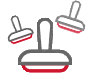
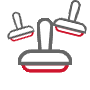
1
1

diff --git a/1차프로젝트/개인과제모음/css/main.css b/1차프로젝트/개인과제모음/css/main.css
@@ -13,6 +13,8 @@ scroll-behavior: smooth;
 /* 공사중표시 */
 body * {
   /* outline: 2px dotted red; */
+  -webkit-user-drag: none;
+  user-select: none;
   /* background-color: black; */
 }
 
@@ -387,6 +389,7 @@ a.salad-logo {
   top: -50%;
   position: absolute;
   transition: 2s ease-in-out all;
+  z-index: -1;
 }
 .cheese {
   top: 0;
@@ -399,64 +402,105 @@ a.salad-logo {
   position: absolute;
   left: 0;
 }
-.sl-piz1>img{
- position: absolute;
-    width: 149.5px;
-    height: 172px;
-    bottom: 12.2%;
-    left: 12.5%;
-}
-.sl-piz2>img{
-  position: absolute;
-    width: 200px;
-    height: 109.9px;
-    bottom: 37.1%;
-    left: 8.7%;
-}
-.sl-piz3>img{
-  position: absolute;
-    width: 199px;
-    height: 121.8px;
-    bottom: 19.8%;
-    left: 8.5%;
-}
-.sl-piz4>img{
- position: absolute;
-    width: 141.3px;
-    height: 157px;
-    bottom: 37.8%;
-    left: 24.5%;
-}
-.sl-piz5>img{
+
+/* 피자조각 공통요소 */
+.pizza-slice>img{
   position: absolute;
     width: 144.1px;
-    height: 171.5px;
-    bottom: 12.3%;
-    left: 24.2%;
+    height: 155.5px;
+    clip-path: polygon(0% 100%, 0% 0%, 100% 76%, 82% 86%, 55% 98%, 25% 100%);
 }
-
+.sl-piz1>img{
+  transform-origin: top left;
+    position: absolute;
+    width: 134.1px;
+    height: 158px;
+    bottom: 12.3%;
+    left: 24.8%;
+    clip-path: polygon(0% 100%, 0% 0%, 100% 76%, 82% 86%, 55% 98%, 25% 100%);
+    rotate: 51deg;
+}
+.sl-piz2>img{
+  transform-origin: top left;
+    position: absolute;
+    width: 134.1px;
+    height: 158px;
+    bottom: 12.3%;
+    left: 24.8%;
+    clip-path: polygon(0% 100%, 0% 0%, 100% 76%, 82% 86%, 55% 98%, 25% 100%);
+    rotate: 139deg;
+}
+.sl-piz3>img{
+  transform-origin: top left;
+    position: absolute;
+    width: 134.1px;
+    height: 158px;
+    bottom: 12.3%;
+    left: 24.8%;
+    clip-path: polygon(0% 100%, 0% 0%, 100% 76%, 82% 86%, 55% 98%, 25% 100%);
+    rotate: 99deg;
+}
+.sl-piz4>img{
+  transform-origin: top left;
+    position: absolute;
+    width: 150.1px;
+    height: 175px;
+    bottom: 10.2%;
+    left: 24.8%;
+    clip-path: polygon(0% 106%, 0% 0%, 100% 77%, 88% 68%, 54% 96%, 25% 100%);
+    transform: skew(8deg, -19deg);
+    rotate: 242deg;
+    opacity: 0;
+}
+.sl-piz5>img{
+  transform-origin: top left;
+    position: absolute;
+    width: 151.1px;
+    height: 168px;
+    bottom: 12.6%;
+    left: 24.3%;
+    clip-path: polygon(0% 100%, 0% 0%, 100% 76%, 82% 86%, 55% 98%, 25% 100%);
+    rotate: 1deg;
+    opacity: 0;
+    
+}
 .sl-piz6>img{
- position: absolute;
-    width: 198px;
-    height: 134.9px;
-    bottom: 17.8%;
-    left: 24.7%;
+ transform-origin: top left;
+    position: absolute;
+    width: 114.1px;
+    height: 159px;
+    bottom: 13.3%;
+    left: 24.3%;
+    clip-path: polygon(0% 100%, 0% 0%, 100% 76%, 82% 86%, 55% 98%, 25% 100%);
+    rotate: 312deg;
+    scale: 1.2;
+    opacity: 0;
+
 }
 .sl-piz7>img{
- position: absolute;
-    width: 198px;
-    height: 113px;
-    bottom: 37.2%;
-    left: 24.7%;
+ transform-origin: top left;
+    position: absolute;
+    width: 139px;
+    height: 189px;
+    bottom: 8.8%;
+    left: 24.8%;
+    clip-path: polygon(0% 0%, 6% 0%, 106% 40%, 85% 80%, 47% 100%, 18% 100%);
+    rotate: 280deg;
+    transform: skew(2deg, 354deg);
+    opacity: 0;
+}
+.sl-piz8>img{
+ transform-origin: top left;
+    position: absolute;
+    width: 134.1px;
+    height: 158px;
+    bottom: 12.3%;
+    left: 24.8%;
+    clip-path: polygon(0% 100%, 0% 0%, 100% 76%, 82% 86%, 55% 98%, 25% 100%);
+    rotate: 179deg;
+    opacity: 0;
 }
 
-.sl-piz8>img{
-position: absolute;
-    width: 134.3px;
-    height: 158.6px;
-    bottom: 37.3%;
-    left: 13.9%;
-}
 /************************************************ 마우스 오버시 배경 영역 ************************************************/
 .eight-pizza-part:hover {
   .e-pizza-tit {
@@ -508,10 +552,10 @@ position: absolute;
   bottom: 80px;
   opacity: 1;
 }
+
 .e-pizza:hover {
   opacity: 1;
   transition: 1s ease-in-out all;
-  cursor: pointer;
 }
 
 .bg-pizza {
@@ -990,9 +1034,86 @@ i.fa-arrow-down{
  max-width: 90px;
   max-height: 90px;
 }
+
+a.cou-logo {
+  display: inline-block;
+}
+/* 처음에 두번째 이미지 안보이게하기 */
+.cou-logo img:last-child {
+  display: none;
+}
+/* 마우스 오버시 첫번쨰이미지 안보이게하기 */
+.cou-logo:hover img:first-child {
+  display: none;
+}
+/*마우스 오버시 두번째 이미지 보이게하기 */
+.cou-logo:hover img:last-child {
+  display: inline;
+}
+
+
+a.stamp-logo {
+  display: inline-block;
+}
+/* 처음에 두번째 이미지 안보이게하기 */
+.stamp-logo img:last-child {
+  display: none;
+}
+/* 마우스 오버시 첫번쨰이미지 안보이게하기 */
+.stamp-logo:hover img:first-child {
+  display: none;
+}
+/*마우스 오버시 두번째 이미지 보이게하기 */
+.stamp-logo:hover img:last-child {
+  display: inline;
+}
+
+
+a.pocket-logo {
+  display: inline-block;
+}
+/* 처음에 두번째 이미지 안보이게하기 */
+.pocket-logo img:last-child {
+  display: none;
+}
+/* 마우스 오버시 첫번쨰이미지 안보이게하기 */
+.pocket-logo:hover img:first-child {
+  display: none;
+}
+/*마우스 오버시 두번째 이미지 보이게하기 */
+.pocket-logo:hover img:last-child {
+  display: inline;
+}
+
+a.mile-logo {
+  display: inline-block;
+}
+/* 처음에 두번째 이미지 안보이게하기 */
+.mile-logo img:last-child {
+  display: none;
+}
+/* 마우스 오버시 첫번쨰이미지 안보이게하기 */
+.mile-logo:hover img:first-child {
+  display: none;
+}
+/*마우스 오버시 두번째 이미지 보이게하기 */
+.mile-logo:hover img:last-child {
+  display: inline;
+}
+
+
+
+
 /******************************************** 7.하단영역 ********************************************/
-.bottom-area {
+#bottom-area {
   height: 249px;
-  width: 1220px;
   margin: 0 auto;
+  background-color: rgba(200, 181, 181, 1)
+}
+.bottom-list1{
+display: flex;
+}
+
+.bottom-list2{
+display: flex;
 }

diff --git a/1차프로젝트/개인과제모음/01.pizza.html b/1차프로젝트/개인과제모음/01.pizza.html
@@ -281,32 +281,41 @@
     <div class="eight-pizza-part">
     <div class="e-pizza-part">
         <div class="sl-part">
-            <!-- 기존 배경 피자 이미지는 CSS로 처리하거나 배경으로 설정 -->
+            <div class="piz-part"><!-- 기존 배경 피자 이미지는 CSS로 처리하거나 배경으로 설정 -->
             <img src="./피자조각 요소/8조각피자.png" alt="8피자" class="e-pizza">
+            <!-- <img src="./피자조각 요소/피자 오버시 7.png" alt="8피자" class="e-pizza1">
+            <img src="./피자조각 요소/피자 오버시 1.png" alt="8피자" class="e-pizza2">
+            <img src="./피자조각 요소/피자 오버시 2.png" alt="8피자" class="e-pizza3">
+            <img src="./피자조각 요소/피자 오버시 8.png" alt="8피자" class="e-pizza4">
+            <img src="./피자조각 요소/피자 오버시 3.png" alt="8피자" class="e-pizza5">
+            <img src="./피자조각 요소/피자 오버시 4.png" alt="8피자" class="e-pizza6">
+            <img src="./피자조각 요소/피자 오버시 5.png" alt="8피자" class="e-pizza7">
+            <img src="./피자조각 요소/피자 오버시 6.png" alt="8피자" class="e-pizza8"> -->
+            </div>
             <!-- 8개의 피자 조각들을 e-pizza 안에 배치 -->
             <a href="" class="pizza-slice sl-piz1">
-                <img src="./피자조각 요소/Layer 10.png" alt="피자조각1" />
+                <img src="./피자조각 요소/Layer 10-1.png" alt="피자조각1" />
             </a>
             <a href="" class="pizza-slice sl-piz2">
-                <img src="./피자조각 요소/Layer 3.png" alt="피자조각2" />
+                <img src="./피자조각 요소/Layer 3-1.png" alt="피자조각2" />
             </a>
             <a href="" class="pizza-slice sl-piz3">
-                <img src="./피자조각 요소/Layer 4.png" alt="피자조각3" />
+                <img src="./피자조각 요소/Layer 4-1.png" alt="피자조각3" />
             </a>
             <a href="" class="pizza-slice sl-piz4">
-                <img src="./피자조각 요소/Layer 11.png" alt="피자조각4" />
+                <img src="./피자조각 요소/Layer 11-1.png" alt="피자조각4" />
             </a>
             <a href="" class="pizza-slice sl-piz5">
                 <img src="./피자조각 요소/Layer 6.png" alt="피자조각5" />
             </a>
             <a href="" class="pizza-slice sl-piz6">
-                <img src="./피자조각 요소/Layer 7.png" alt="피자조각6" />
+                <img src="./피자조각 요소/Layer 7-1.png" alt="피자조각6" />
             </a>
             <a href="" class="pizza-slice sl-piz7">
-                <img src="./피자조각 요소/Layer 8.png" alt="피자조각7" />
+                <img src="./피자조각 요소/Layer 8-1.png" alt="피자조각7" />
             </a>
             <a href="" class="pizza-slice sl-piz8">
-                <img src="./피자조각 요소/Layer 9.png" alt="피자조각8" />
+                <img src="./피자조각 요소/Layer 9-1.png" alt="피자조각8" />
             </a>
         </div>
     </div>
@@ -497,15 +506,44 @@
         <i class="fa-solid fa-arrow-down"></i>
       </span>
       <div class="eve-logo-box">
-        <img src="./로고/Untitled-1.png" alt="쿠폰이미지">
-        <img src="./로고/Untitled-2.png" alt="스탬프이미지">
-        <img src="./로고/피자헛20.png" alt="지갑이미지">
-        <img src="./로고/피자헛21.png" alt="마일리지이미지">
+        <a href="" class="cou-logo">
+          <img src="./로고/Untitled-1.png" alt="쿠폰이미지">
+          <img src="./로고/피자헛19.png" alt="쿠폰모션">
+        </a>
+        <a href="" class="stamp-logo">
+          <img src="./로고/Untitled-2.png" alt="스탬프이미지">
+          <img src="./로고/피자헛22.png" alt="스탬프모션">
+        </a>
+        <a href="" class="pocket-logo">
+          <img src="./로고/피자헛20.png" alt="지갑이미지">
+          <img src="./로고/피자헛로고제작.png" alt="지갑모션">
+        </a>
+        <a href=""class="mile-logo">
+          <img src="./로고/피자헛21.png" alt="마일리지이미지">
+          <img src="./로고/피자헛할인로고.png" alt="마일리지모션">
+        </a>
       </div>
     </div>
   </body>
   <!-- ******************************************************************************************7.하단영역****************************************************************************************** -->
   <div id="bottom-area">
-    <footer class="bottom-area inbox"></footer>
+    <footer class="bottom-area ">
+      <ul class="bottom-list1">
+        <li>개인정보처리방침</li>
+        <li>공지사항</li>
+        <li>창업안내</li>
+        <li>대표번호</li>
+        <li>1588-5588</li>
+        <li>(운영시간 10:30 ~ 22:00)</li>
+      </ul>
+
+      <ul class="bottom-list2">
+        <li>서울시 영등포구 국회대로 74길 4, 9~11층</li>
+        <li>사업자등록번호 120-81-63948통신판매업신고번호 제2018-서울영등포-1220호</li>
+        <li>한국피자헛유한회사 대표이사 : 조윤상 개인정보 보호책임자 : 손정완</li>
+        <li>Copyright © BY PIZZA HUT KOREA LTD. ALL RIGHT RESERVED</li>
+      </ul>
+
+    </footer>
   </div>
 </html>

diff --git a/1차프로젝트/개인과제모음/js/pizza.js b/1차프로젝트/개인과제모음/js/pizza.js
@@ -36,3 +36,5 @@ document.addEventListener('DOMContentLoaded', function() {
         });
     });
 });
+
+// .sl-piz8>img에 마우스 오버시
